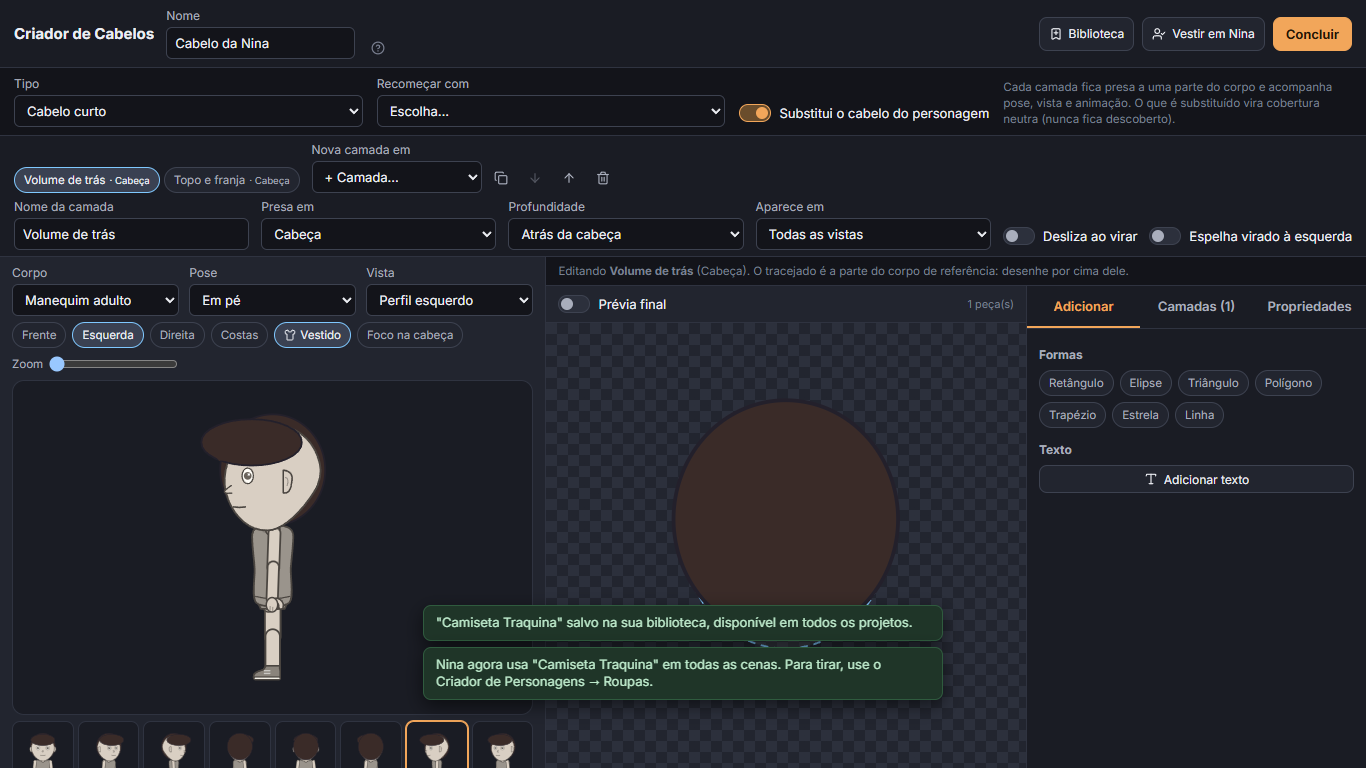
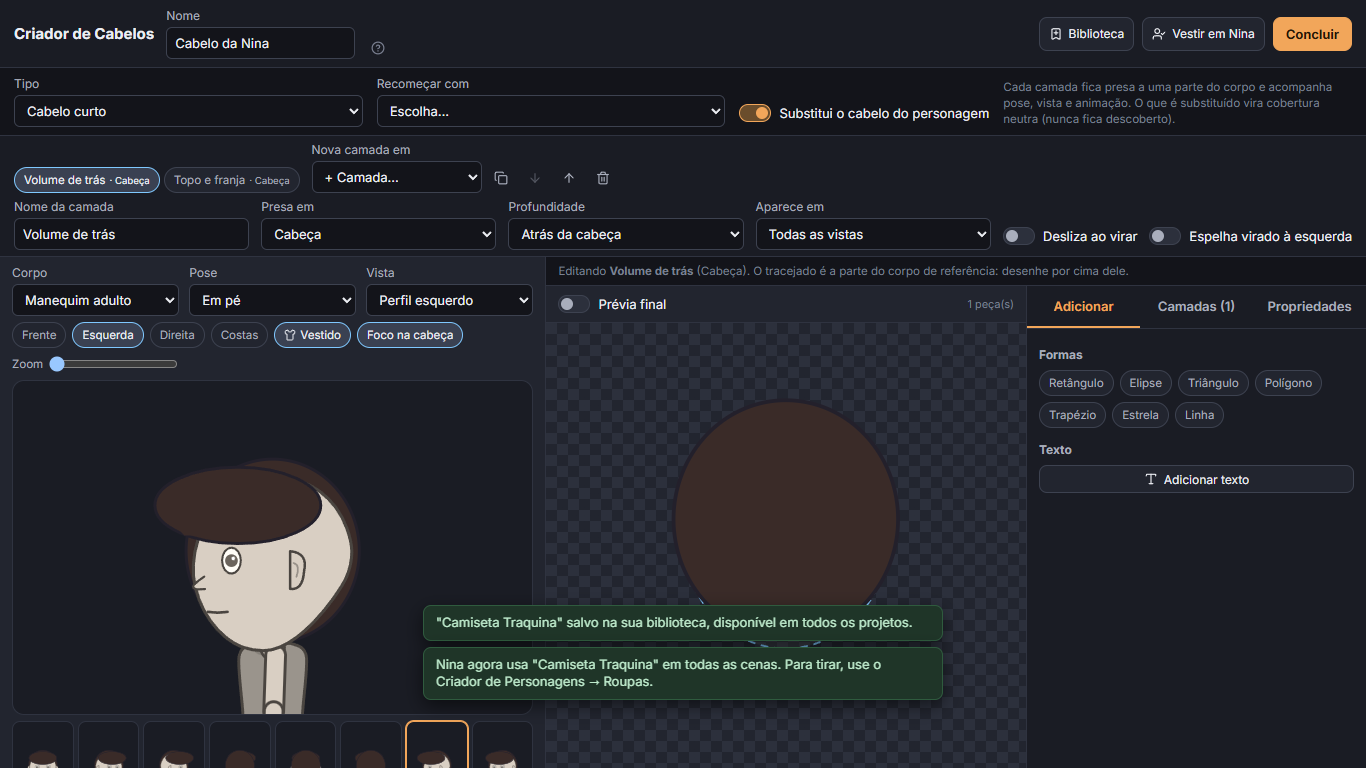
docs(3b): CHANGELOG, catálogo, testes e checklist de aceitação

Changed region(s): [[0.0, 0.5312, 0.3997, 1.0], [0.246, 0.4062, 0.3382, 0.4688]]

diff --git a/docs/ACEITACAO.md b/docs/ACEITACAO.md
@@ -24,8 +24,23 @@ Legenda: **PASSOU** = implementado e verificado em teste automatizado. **PARCIAL
 | Item | Estado | Evidência |
 | --- | --- | --- |
 | 3a. Texto editável nos criadores (Objetos, Cenários) | PASSOU | unit e E2E `creator-text` |
-| 3b. Criador de roupas e cabelos com manequim | NÃO IMPLEMENTADO | próxima etapa |
+| 3b. Criador de roupas e cabelos com manequim | PASSOU | unit `wear` (12) e E2E `wear` (3); ver tabela abaixo |
 | 3c. Corpo modular, cores por parte, esclera por olho | NÃO IMPLEMENTADO | |
+
+## Fase 3b: Roupas e Cabelos
+
+| Item | Estado | Evidência |
+| --- | --- | --- |
+| Criador de Roupas dedicado, camadas, formas, texto, cor, contorno, posição, tamanho, giro | PASSOU | E2E `wear` (camiseta com "TRAQUINA") |
+| Adicionar, duplicar, reordenar e excluir camadas; desfazer/refazer | PASSOU* | botões no criador; E2E cobre desfazer/refazer do vestir. *Reordenar/duplicar camada sem E2E próprio |
+| Criador de Cabelos (frente/trás, profundidade, comprimento atrás do corpo) | PASSOU | unit (cabelo longo de costas); E2E cria e aplica |
+| Manequim: 6 corpos ou personagem do projeto, poses, 8 vistas, aplicar/remover só na prévia | PASSOU | E2E (troca de corpo sem mudar a Nina); unit |
+| Cobertura neutra no peito e quadril sem roupa; sem nudez | PASSOU | unit (6 manequins × 8 vistas) e E2E |
+| Segue pose, vista, animação; ajusta ao corpo | PASSOU | unit (pose, criança × adulto, 8 vistas) |
+| Salvar como item individual; Elenco e Biblioteca; editar, duplicar, renomear, exportar, importar, excluir | PASSOU* | unit (catálogo, deduplicação, registro quebrado); E2E salva e encontra na Biblioteca. *Renomear/exportar/importar de peça sem E2E próprio |
+| Vestir no personagem; reabrir projeto; exportar PNG | PASSOU | E2E (recarregar e PNG 854×480) |
+| Celular: prévia primeiro, controles abaixo | PASSOU | E2E 390×844 e captura |
+| Ajuste fino de caimento por personagem sem mudar a peça | PARCIAL | a peça escala pelo corpo; não há deslocamento por personagem (fica para 3c) |
 
 ## Fase 2.5: Biblioteca principal
 
@@ -39,7 +54,7 @@ Legenda: **PASSOU** = implementado e verificado em teste automatizado. **PARCIAL
 | Toolbox compacta no Studio e acesso à Biblioteca completa | PASSOU | E2E `library-home` |
 | Mesmo catálogo e armazenamento nos dois lugares | PASSOU | E2E (Home → Studio e Studio → Biblioteca) |
 | Referências internas de pacote, falhas de armazenamento, importação grande | PASSOU | unit (recusa e mensagens); importação assíncrona com progresso sem teste de carga dedicado |
-| Tipos futuros (roupas, cabelos, veículos com rig) | NÃO IMPLEMENTADO | não aparecem na interface |
+| Tipos futuros (roupas, cabelos, veículos com rig) | PARCIAL | roupas e cabelos na Fase 3b; veículos com rig não implementados |
 
 ## Continuação do PR #3
 

diff --git a/CHANGELOG.md b/CHANGELOG.md
@@ -14,6 +14,16 @@ Branch `feature/recorte-studio-catalogo-biblioteca`, sobre a 1.2. Sem lançament
 - **Vínculo pai/filho:** Propriedades → Camadas → Vinculado a. O elemento acompanha o grupo (posição, giro, escala, keyframes) e mantém as próprias falas, ações e piscadas. Vincular e soltar não mudam a posição na tela.
 - **Shift+clique no losango da seção** (ou toque longo) remove só os keyframes daquela seção no instante atual, com um único Ctrl+Z e confirmação quando acaba com a animação de uma propriedade.
 
+### Fase 3b: Criadores de Roupas e Cabelos com manequim
+
+- **Criador de Roupas e Criador de Cabelos** (Elenco → Criar roupa / Criar cabelo; Biblioteca → + Roupa / + Cabelo): peças por camadas, cada camada presa a uma parte do corpo (cabeça, tronco, quadril, braço, antebraço, coxa, canela). Formas (incluindo o novo **trapézio**), texto, cor, contorno, posição, tamanho, giro, ordem; adicionar, duplicar, reordenar e excluir camadas; desfazer/refazer.
+- **Pontos de partida originais:** camiseta, camisa de manga longa, casaco aberto, vestido, calça, bermuda, saia, macacão; cabelo curto, longo, cacheado, black e coque.
+- **Manequim de referência** em 6 corpos (adulto, robusto, esguio, adolescente, criança, idoso) ou qualquer personagem do projeto, com pose, as 8 vistas, zoom, foco na cabeça e "Sem a peça". Experimentar no manequim não muda nenhum personagem. **Sem roupa, cobertura neutra opaca no peito e no quadril; sem nudez.**
+- **Acompanha o corpo:** a peça segue pose, vista, animação, reprodução e exportação; ajusta-se ao tamanho de cada corpo; cabelo comprido fica atrás do corpo de frente e por cima das costas de costas; camadas só de frente/só de costas, "desliza ao virar" e espelhamento. Peças que substituem a roupa ou o cabelo padrão deixam uma base neutra por baixo.
+- **Itens individuais:** cada roupa/cabelo aparece no Elenco e na Biblioteca com miniatura, categoria (Roupas, Cabelos) e informações; vestir no personagem selecionado, editar, duplicar, renomear, salvar na biblioteca (mesmo registro ao salvar de novo), exportar, importar e excluir. Editar uma peça atualiza todos os personagens do projeto que a vestem; cada personagem guarda a própria cópia.
+- **Criador de Personagens → Roupas/Cabelo:** lista as peças criadas para vestir e tirar, e cria novas.
+- **Compatibilidade:** projetos e personagens antigos abrem iguais (`wear` e `wearables` vazios por padrão); .jrec, pacotes e biblioteca existentes não mudam.
+
 ### Fase 3a: texto nos criadores
 
 - **Texto editável** como peça nos Criadores de Objetos e de Cenários: conteúdo com várias linhas, fonte, tamanho, peso, itálico, alinhamento, espaçamento, cor e contorno; continua texto na biblioteca, em pacotes e no .jrec, e entra na busca da Biblioteca.

diff --git a/docs/CATALOGO.md b/docs/CATALOGO.md
@@ -93,6 +93,14 @@ O palco calcula a matriz câmera × pais × nó (a mesma composição do renderi
 | 13 | Undo/redo e Shift+clique da seção | PASSOU | unit e E2E (remove só o instante, um Ctrl+Z, confirmação) |
 | 14 | Centenas de itens | PASSOU | E2E com 400 registros: abrir ~160–400 ms, buscar ~40–70 ms, só a 1ª página desenhada |
 
+## Roupas e cabelos criados (Fase 3b)
+
+- **Formato:** `Wearable` (`src/engine/model/schema.ts`): `kind` (roupa ou cabelo), `category`, `hides` (substitui parte de cima, de baixo, cabelo) e até 40 `layers`. Cada camada tem `anchor` (cabeça, tronco, quadril, braço, antebraço, coxa, canela), `depth` (na frente, atrás da cabeça, atrás do corpo), `side` (todas, só frente, só costas), `followTurn`, `mirror` e até 200 peças vetoriais (as mesmas dos criadores, sem imagem).
+- **Onde fica:** o projeto guarda o registro em `project.wearables`; cada personagem que veste guarda uma **cópia** em `CharacterDefinition.wear` (até 12). Editar a peça atualiza as cópias de todos os personagens do projeto. Na biblioteca, o tipo é `wearable` e a identidade é o `id` da peça (salvar de novo atualiza o mesmo registro).
+- **Renderização** (`src/engine/character/wear.ts` + `render.ts`): as camadas são desenhadas dentro do grupo da parte do corpo, no espaço do corpo de referência (adulto padrão) e escaladas pela medida real da parte em cada personagem e vista. Por isso acompanham pose, vista, animação, prévia e exportação. Mangas e pernas usam o mesmo desenho nos dois lados.
+- **Cobertura:** quando a peça substitui a roupa ou o cabelo padrão, a parte de cima vira base neutra sem manga, o quadril vira base neutra e o cabelo vira careca; nada fica descoberto. Os manequins usam essa base também (peito e quadril).
+- **Limitações (para a Fase 3c):** sem caimento por personagem (só escala); sem dobra de tecido; partes do corpo fixas (sem corpo modular); camadas de braço e perna iguais nos dois lados; cabelo criado e chapéus não se recortam entre si.
+
 ## Limitações conhecidas
 
 - A decomposição de matrizes não representa cisalhamento (pai com escala não uniforme e filho girado).

diff --git a/docs/TESTES.md b/docs/TESTES.md
@@ -86,6 +86,14 @@ Executados em 08/11/2026 na branch `feature/recorte-studio-catalogo-biblioteca`,
 
 **Bugs encontrados pelos testes e corrigidos:** pedido de nome dentro do Criador aparecia por baixo dele; desagrupar grupo girado fazia os filhos pularem; elementos de grupos sumiam da timeline.
 
+## Fase 3b: roupas e cabelos
+
+Suíte inteira após a Fase 3b: typecheck e lint sem erros; unitários **419/419**; E2E **130/130 numa única execução** (14,1 min).
+
+**Novos unitários:** `wear.test.ts` (12: projetos e personagens antigos sem mudança no desenho, pontos de partida válidos, limites, guia de cada parte do corpo, 8 vistas, camada só de frente some de costas, acompanha a pose, escala criança × adulto, cabelo criado troca o outro e fica sobre as costas, cobertura neutra nos 6 manequins × 8 vistas e sob peça que substitui, catálogo com deduplicação e registro quebrado, JSON do .jrec).
+
+**Novos E2E:** `wear.spec.ts` (3: camiseta com texto criada no manequim, 8 vistas, troca de corpo sem mudar a Nina, salvar na biblioteca, vestir, cabelo, desfazer/refazer, itens no Elenco, recarregar, PNG exportado, detalhes na Biblioteca; Criador de Personagens vestir/tirar e manequim coberto; celular 390×844 com a prévia primeiro).
+
 ## Novos na 1.2
 
 **Unitários** (`library-bundles`, `creators`, `limb-depth`, `quick-actions`, `story-load`, `manual`, `v12`): pacotes de biblioteca (fecho de objetos aninhados, leitura de formatos antigos e de lixo, reaproveitar × copiar, ciclos); invalidação dos caches de objetos, cenários e miniaturas; quadro vertical, 1:1 e 4:3 nos modelos do Criador de Cenários; seleção de peças giradas, espelhadas e escaladas; mover, girar e escalar grupos sem deriva; profundidade de braços e mãos em 8 vistas × poses; ações rápidas do celular por tipo de seleção e por estado no tempo; história grande (validade, determinismo, preview × exportação, **120 quadros de uma cena com cenário de 80 peças e 10 figurantes abaixo de 25 ms por quadro**); manual (todo link, ajuda contextual, imagem e marcação existem; busca); validação do modo simples; pré-escuta de áudio com cancelamento.
